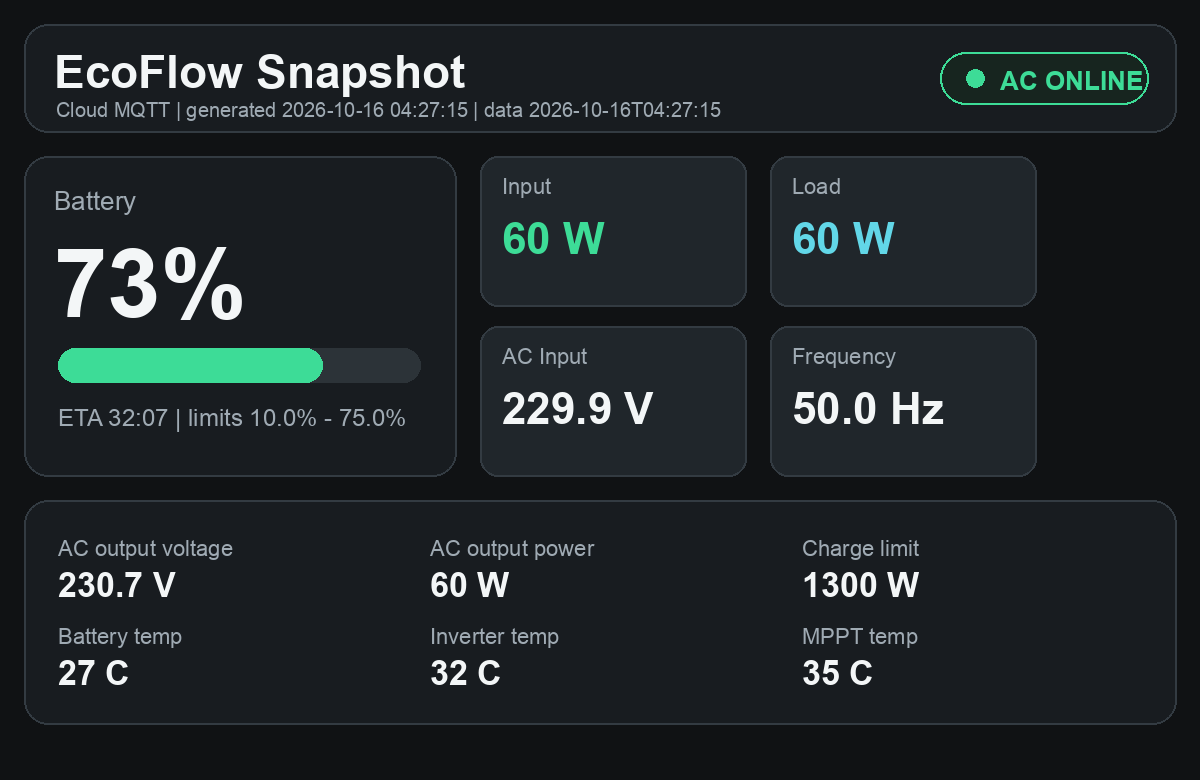
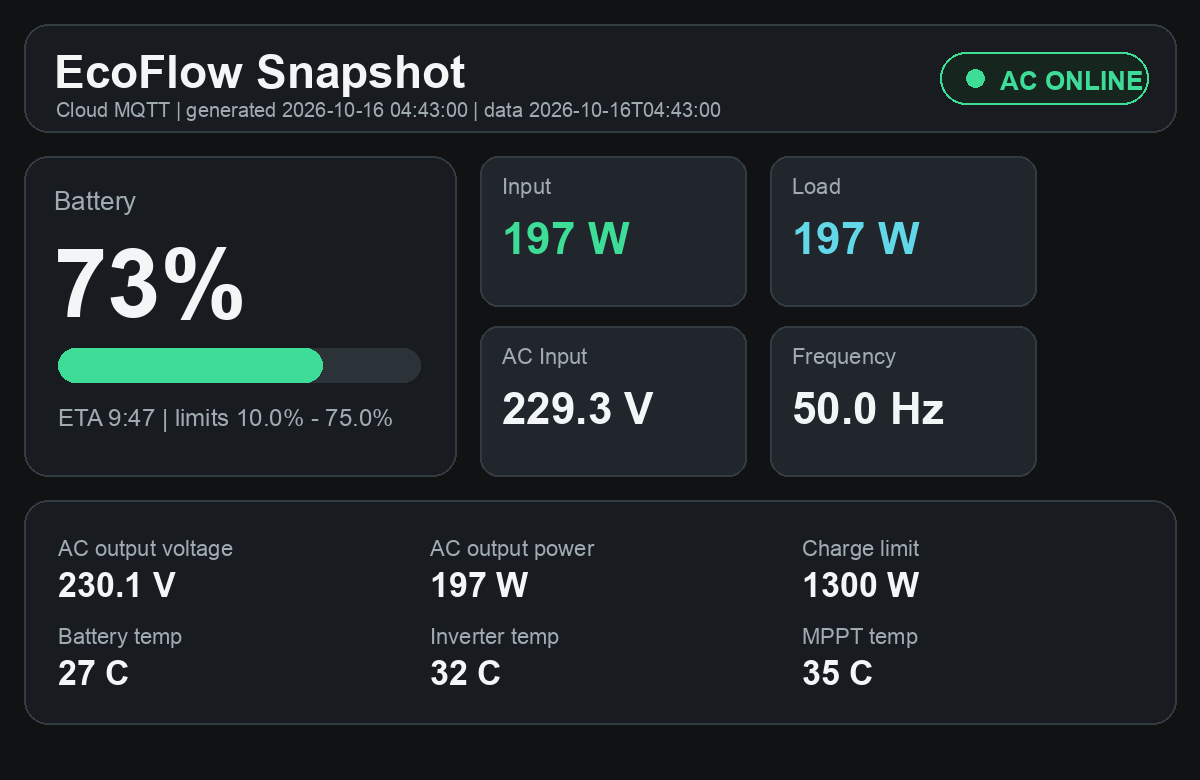
Update EcoFlow dashboard 2026-10-16 04:43:00

diff --git a/index.html b/index.html
@@ -177,7 +177,7 @@
   <header>
     <div>
       <h1>EcoFlow Snapshot</h1>
-      <div class="sub">Cloud MQTT · generated 2026-10-16T04:27:15 · data 2026-10-16T04:27:15</div>
+      <div class="sub">Cloud MQTT · generated 2026-10-16T04:43:00 · data 2026-10-16T04:43:00</div>
     </div>
     <div class="status online"><span class="dot"></span><span>AC online</span></div>
   </header>
@@ -189,20 +189,20 @@
       <h2>Battery</h2>
       <div class="value">73%</div>
       <div class="battery"><div class="fill"></div></div>
-      <div class="row"><span>ETA</span><span>32:07</span></div>
+      <div class="row"><span>ETA</span><span>9:47</span></div>
       <div class="row"><span>SOC limits</span><span>10.0% - 75.0%</span></div>
     </section>
     <section>
       <h2>AC</h2>
-      <div class="row"><span>Input voltage</span><span>229.9 V</span></div>
+      <div class="row"><span>Input voltage</span><span>229.3 V</span></div>
       <div class="row"><span>Input frequency</span><span>50.0 Hz</span></div>
-      <div class="row"><span>Output voltage</span><span>230.7 V</span></div>
+      <div class="row"><span>Output voltage</span><span>230.1 V</span></div>
     </section>
   </div>
 
   <div class="cards">
-    <div class="card"><span class="label">Input</span><span class="value">60 W</span></div>
-    <div class="card"><span class="label">Load</span><span class="value">60 W</span></div>
+    <div class="card"><span class="label">Input</span><span class="value">197 W</span></div>
+    <div class="card"><span class="label">Load</span><span class="value">197 W</span></div>
     <div class="card"><span class="label">Battery temp</span><span class="value">27°C</span></div>
     <div class="card"><span class="label">Inverter temp</span><span class="value">32°C</span></div>
   </div>
@@ -212,13 +212,13 @@
       <h2>Останні 24 години</h2>
       <div class="daily-grid">
         <div class="daily-item"><span class="label">Напруга min / max</span><strong>221 V / 236 V</strong><small>15.10 13:53 / 16.10 00:19</small></div>
-        <div class="daily-item"><span class="label">SOC min / max</span><strong>73% / 79%</strong><small>16.10 03:45 / 15.10 04:35</small></div>
+        <div class="daily-item"><span class="label">SOC min / max</span><strong>73% / 79%</strong><small>16.10 03:45 / 15.10 05:06</small></div>
         <div class="daily-item"><span class="label">Пік навантаження</span><strong>440 W</strong><small>15.10 19:13</small></div>
         <div class="daily-item"><span class="label">Зарядний ліміт</span><strong>1300 W</strong><small>пік входу 440 W · 34% ліміту</small></div>
         <div class="daily-item"><span class="label">Заряджання</span><strong>0 сек</strong><small>--</small></div>
         <div class="daily-item"><span class="label">Розряджання</span><strong>0 сек</strong><small>--</small></div>
-        <div class="daily-item"><span class="label">Енергія вхід / вихід</span><strong>313 Wh / 313 Wh</strong><small>оцінка за sample-ами</small></div>
-        <div class="daily-item"><span class="label">Частота min / max</span><strong>50.0 Hz / 50.0 Hz</strong><small>15.10 04:35 / 15.10 04:35</small></div>
+        <div class="daily-item"><span class="label">Енергія вхід / вихід</span><strong>327 Wh / 327 Wh</strong><small>оцінка за sample-ами</small></div>
+        <div class="daily-item"><span class="label">Частота min / max</span><strong>50.0 Hz / 50.0 Hz</strong><small>15.10 05:06 / 15.10 05:06</small></div>
       </div>
     </section>
     
@@ -245,24 +245,24 @@
   &quot;ok&quot;: true,
   &quot;source&quot;: &quot;Cloud MQTT&quot;,
   &quot;device&quot;: &quot;DELTA Pro&quot;,
-  &quot;timestamp&quot;: &quot;2026-10-16T04:27:15&quot;,
+  &quot;timestamp&quot;: &quot;2026-10-16T04:43:00&quot;,
   &quot;grid&quot;: true,
   &quot;battery&quot;: {
     &quot;soc&quot;: 73,
     &quot;min&quot;: 10.0,
     &quot;max&quot;: 75.0,
-    &quot;eta&quot;: &quot;32:07&quot;
+    &quot;eta&quot;: &quot;9:47&quot;
   },
   &quot;power&quot;: {
-    &quot;in&quot;: 60,
-    &quot;out&quot;: 60,
-    &quot;acOut&quot;: 60,
+    &quot;in&quot;: 197,
+    &quot;out&quot;: 197,
+    &quot;acOut&quot;: 197,
     &quot;chargeLimit&quot;: 1300
   },
   &quot;ac&quot;: {
-    &quot;inputVoltage&quot;: 229.898,
+    &quot;inputVoltage&quot;: 229.274,
     &quot;inputFreq&quot;: 50.0,
-    &quot;outputVoltage&quot;: 230.702
+    &quot;outputVoltage&quot;: 230.064
   },
   &quot;temps&quot;: {
     &quot;battery&quot;: 27,
@@ -349,16 +349,16 @@
   ],
   &quot;telemetry&quot;: {
     &quot;window&quot;: &quot;24h&quot;,
-    &quot;sample_count&quot;: 238,
-    &quot;from&quot;: &quot;2026-10-15T04:35:08&quot;,
-    &quot;to&quot;: &quot;2026-10-16T04:27:15&quot;,
+    &quot;sample_count&quot;: 252,
+    &quot;from&quot;: &quot;2026-10-15T05:06:30&quot;,
+    &quot;to&quot;: &quot;2026-10-16T04:43:00&quot;,
     &quot;latest&quot;: {
       &quot;mode&quot;: &quot;idle&quot;,
       &quot;grid&quot;: true,
       &quot;soc&quot;: 73.0,
-      &quot;ac_v&quot;: 229.898,
-      &quot;in_w&quot;: 60.0,
-      &quot;out_w&quot;: 60.0,
+      &quot;ac_v&quot;: 229.274,
+      &quot;in_w&quot;: 197.0,
+      &quot;out_w&quot;: 197.0,
       &quot;charge_limit_w&quot;: 1300.0
     },
     &quot;voltage&quot;: {
@@ -372,11 +372,11 @@
       },
       &quot;frequency_min&quot;: {
         &quot;value&quot;: 50.0,
-        &quot;ts&quot;: &quot;2026-10-15T04:35:08&quot;
+        &quot;ts&quot;: &quot;2026-10-15T05:06:30&quot;
       },
       &quot;frequency_max&quot;: {
         &quot;value&quot;: 50.0,
-        &quot;ts&quot;: &quot;2026-10-15T04:35:08&quot;
+        &quot;ts&quot;: &quot;2026-10-15T05:06:30&quot;
       }
     },
     &quot;soc&quot;: {
@@ -386,7 +386,7 @@
       },
       &quot;max&quot;: {
         &quot;value&quot;: 79.0,
-        &quot;ts&quot;: &quot;2026-10-15T04:35:08&quot;
+        &quot;ts&quot;: &quot;2026-10-15T05:06:30&quot;
       }
     },
     &quot;power&quot;: {
@@ -404,16 +404,16 @@
       },
       &quot;charge_limit_w&quot;: 1300.0,
       &quot;max_input_pct_of_current_limit&quot;: 34,
-      &quot;input_wh_est&quot;: 313.2,
-      &quot;load_wh_est&quot;: 313.2
+      &quot;input_wh_est&quot;: 327.1,
+      &quot;load_wh_est&quot;: 327.1
     },
     &quot;modes&quot;: {
       &quot;charging_sec&quot;: 0,
       &quot;discharging_sec&quot;: 0,
-      &quot;idle_sec&quot;: 19650,
+      &quot;idle_sec&quot;: 20415,
       &quot;charging&quot;: &quot;0 сек&quot;,
       &quot;discharging&quot;: &quot;0 сек&quot;,
-      &quot;idle&quot;: &quot;5 год 27 хв&quot;,
+      &quot;idle&quot;: &quot;5 год 40 хв&quot;,
       &quot;last_charging&quot;: null,
       &quot;last_discharging&quot;: null
     }
